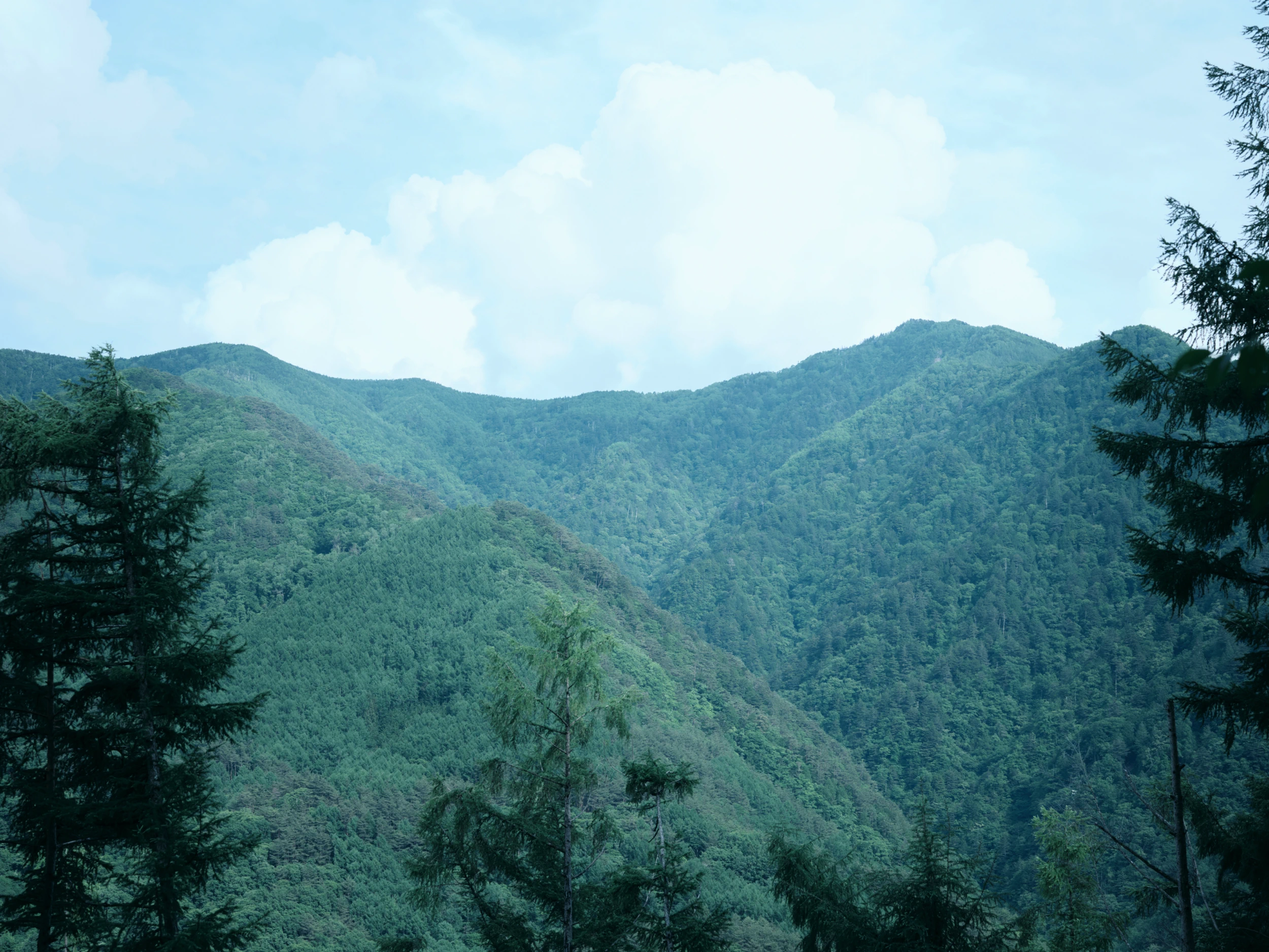
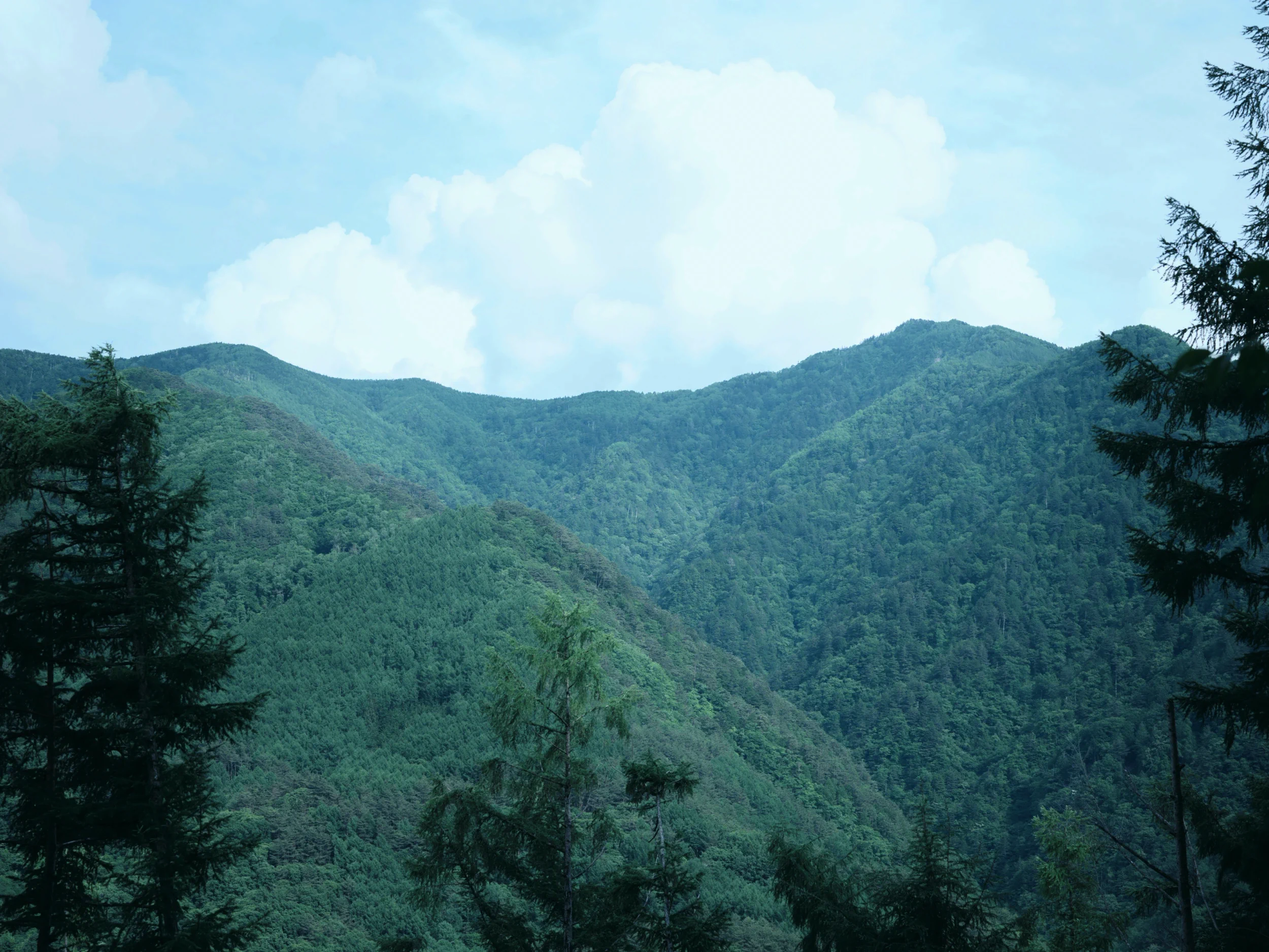
more image optimization

diff --git a/app/[locale]/page.tsx b/app/[locale]/page.tsx
@@ -7,7 +7,7 @@ import HomeImage002 from '@images/home-images/home-image-002.webp';
 import HomeImage003 from '@images/home-images/home-image-003.webp';
 import HomeImage004 from '@images/home-images/home-image-004.webp';
 import HomeImage005 from '@images/home-images/home-image-005.webp';
-import HomeImage006 from '@images/home-images/home-image-006.jpg';
+import HomeImage006 from '@images/home-images/home-image-006.webp';
 import HomeImage007 from '@images/home-images/home-image-007.webp';
 import HomeImage008 from '@images/home-images/home-image-008.webp';
 import clsx from 'clsx';
